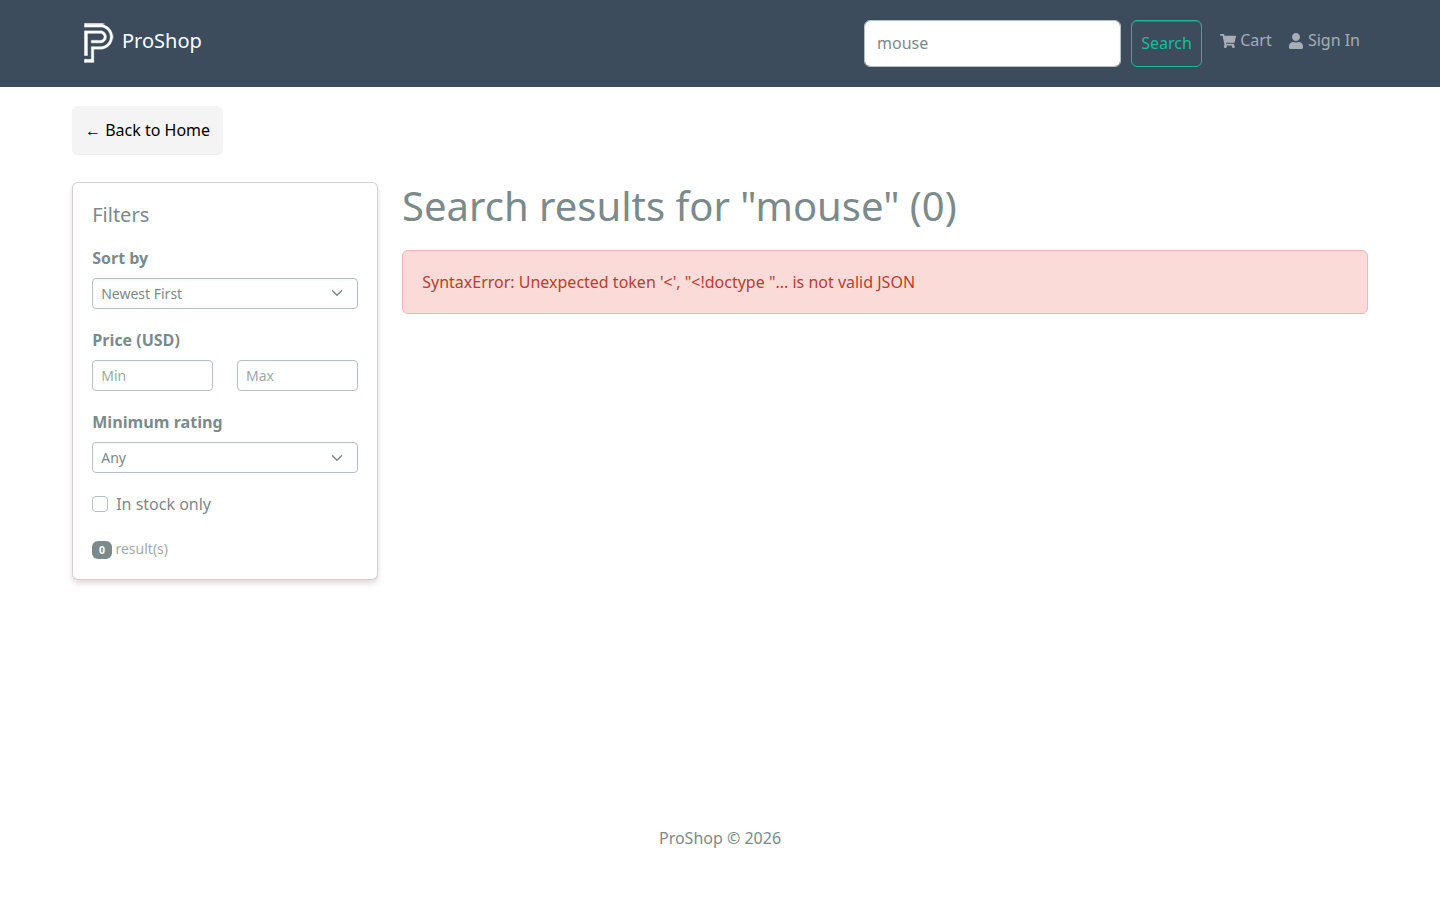
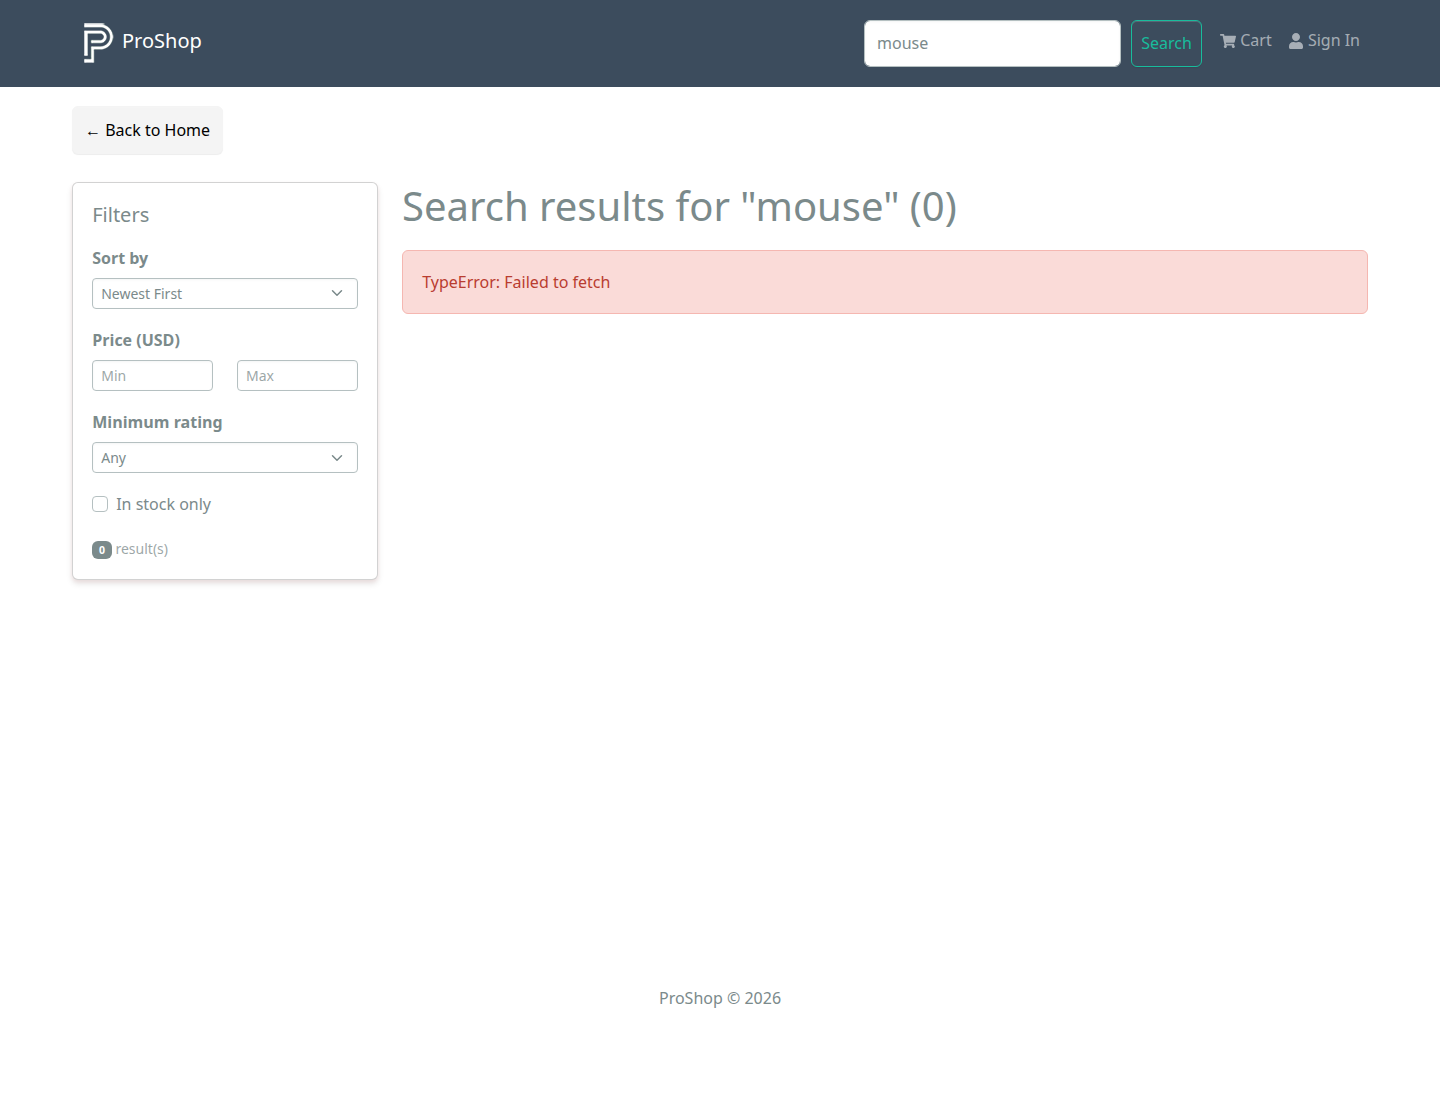
docs(readme): refresh all screenshots against LIVE backend on Render
Previously all screenshots in README pointed at production build that
talked to localhost:5000 — invisible error states leaked in (parse error
on fetch, blank cards, etc.). Looked unprofessional.

This commit regenerates everything against the **live Render backend**
(https://proshop-api-tovz.onrender.com) so screenshots now show:
- Real 6 products fetched from MongoDB Atlas
- Search results returning matches
- Filter sidebar in actual use
- Product detail with real data
- All forms (login, register)
- Design system sections (3 separate captures)

Files: replaced 9 PNGs, removed 02b-design-system-tall.png (redundant).

README updates:
- Hero gallery now 3 rows × 3 cols instead of broken 3 rows × 2 cols
- Cleaner tables in Screenshots section
- Notes column explaining what each shot shows
- All image paths verified to exist (grep + ls in commit message)

diff --git a/readme.md b/readme.md
@@ -3,22 +3,25 @@
 > A full-featured eCommerce platform built with the MERN stack (MongoDB, Express, React, Node.js) & Redux Toolkit.
 
 <p align="center">
-  <img src="./docs/screenshots/01-home.png" alt="Home page" width="49%">
-  <img src="./docs/screenshots/02b-design-system-tall.png" alt="Design System" width="49%">
+  <img src="./docs/screenshots/01-home.png" alt="Home page with filter sidebar and 6 products" width="32%">
+  <img src="./docs/screenshots/02-design-system.png" alt="Design System showcase page top view" width="32%">
+  <img src="./docs/screenshots/03-product.png" alt="Product detail with rating and wishlist button" width="32%">
 </p>
 
 <p align="center">
-  <img src="./docs/screenshots/07-home-filter-active.png" alt="Filter & Sort" width="49%">
-  <img src="./docs/screenshots/03-product.png" alt="Product detail" width="49%">
+  <img src="./docs/screenshots/07-home-filter-active.png" alt="Filter & Sort sidebar in action" width="32%">
+  <img src="./docs/screenshots/06-search-mouse.png" alt="Search results for mouse" width="32%">
+  <img src="./docs/screenshots/04-login.png" alt="Login page" width="32%">
 </p>
 
 <p align="center">
-  <img src="./docs/screenshots/06-search-mouse.png" alt="Search results" width="49%">
-  <img src="./docs/screenshots/04-login.png" alt="Login" width="49%">
+  <img src="./docs/screenshots/09-design-system-ecommerce.png" alt="Design System — product cards, coupons, wishlist" width="49%">
+  <img src="./docs/screenshots/08-design-system-cards.png" alt="Design System — cards, badges, tables" width="49%">
 </p>
 
-> **Above:** Home page · Design System Showcase · Filter & Sort · Product detail · Search · Login.
-> See [Screenshots section](#-screenshots) below for the full set.
+> **Above:** Storefront (top row) · Search & Filter (middle row) · Design System deep-dive (bottom row).
+> All screenshots were regenerated against the live **Render backend** + **MongoDB Atlas**.
+> See [Screenshots section](#-screenshots) below for the full set with notes.
 
 A complete eCommerce application featuring a shopping cart, product reviews, admin panel, and integrated PayPal & credit/debit card payments — plus a **Wishlist**, **coupon system**, **advanced filter+sort**, and a full **Design System Showcase** page.
 
@@ -201,32 +204,31 @@ jane@email.com (Customer) - 123456
 
 ## 📸 Screenshots
 
-Full app visual gallery:
+Full app visual gallery, regenerated against the live **Render backend** + **MongoDB Atlas**.
 
-### Storefront
+### 🛍 Storefront
 
-| Page | Screenshot |
+| Page | Screenshot | Notes |
+|---|---|---|
+| **Home** (`/`) | ![Home](./docs/screenshots/01-home.png) | Carousel + filter sidebar + 6-product grid with wishlist hearts |
+| **Filter & Sort active** (`/?category=...`) | ![Filter](./docs/screenshots/07-home-filter-active.png) | Electronics + Apple + Amazon brands checked, sorted by price ↑ |
+| **Search results** (`/search/:keyword`) | ![Search](./docs/screenshots/06-search-mouse.png) | Keyword match in product names |
+| **Product detail** (`/product/:id`) | ![Product](./docs/screenshots/03-product.png) | Image, price, rating, wishlist toggle, reviews section |
+| **Login** (`/login`) | ![Login](./docs/screenshots/04-login.png) | Email + password, demo accounts hint |
+| **Register** (`/register`) | ![Register](./docs/screenshots/05-register.png) | Name + email + confirm-password |
+
+### 🎨 Design System Showcase (`/design-system`)
+
+A live UI kit documenting every component the team uses. Public route — open it before reviewing the source code.
+
+| Section | Screenshot |
 |---|---|
-| **Home (Carousel + Latest)** | ![Home](./docs/screenshots/01-home.png) |
-| **Filter & Sort Sidebar** | ![Filter](./docs/screenshots/07-home-filter-active.png) |
-| **Search results** (`/search/:keyword`) | ![Search](./docs/screenshots/06-search-mouse.png) |
-| **Product detail (with wishlist)** | ![Product](./docs/screenshots/03-product.png) |
-| **Login** | ![Login](./docs/screenshots/04-login.png) |
-| **Register** | ![Register](./docs/screenshots/05-register.png) |
+| **Top — Brand Identity & Forms** | ![DS top](./docs/screenshots/02-design-system.png) |
+| **Cards / Badges / Tables** | ![DS cards](./docs/screenshots/08-design-system-cards.png) |
+| **eCommerce-specific (Product cards, Coupons, Order Timeline, Filter)** | ![DS ecom](./docs/screenshots/09-design-system-ecommerce.png) |
 
-### Design System Showcase (`/design-system`)
-
-A live UI kit documenting every component the app uses:
-
-| View | Screenshot |
-|---|---|
-| **Top — Brand & Buttons** | ![DS top](./docs/screenshots/02b-design-system-tall.png) |
-| **Cards & Tables section** | ![DS cards](./docs/screenshots/08-design-system-cards.png) |
-| **eCommerce patterns (Product cards + coupons)** | ![DS ecom](./docs/screenshots/09-design-system-ecommerce.png) |
-| **Above-the-fold view** | ![DS main](./docs/screenshots/02-design-system.png) |
-
-> 💡 The Design System route (`/design-system`) is **public** — open it before
-> reviewing the source code to see all patterns the team uses.
+> 💡 The Design System route is **public** — share the URL with reviewers to
+> see the full UI toolkit before diving into source code.
 
 ## API Endpoints (Newly added)
 
